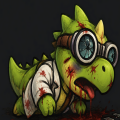
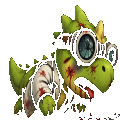
git commit -m loop_fade

diff --git a/dino_mite_view/game_component/viewLevelOne.py b/dino_mite_view/game_component/viewLevelOne.py
@@ -1,5 +1,5 @@
 from curses.ascii import ctrl
-
+import os
 import pygame
 import logging
 from dino_mite_view.game_component.pause_menu import PauseMenu
@@ -19,6 +19,7 @@ class ViewLevelOne:
         self.pause_start = 0
         self.eventually_time = ""
         self.time_duration_level = 120
+        self.store_text_end = self.upload_file()
 
 
     def draw_screen_level_one(self, window, ctr_level_one):
@@ -97,14 +98,36 @@ class ViewLevelOne:
             if game_over:
                 # ADD HERE CHANGE IMAGE CHARACTER
                 ctr_level_one.init_music_end_level_one()
-                pygame.time.delay(500)
                 fade = pygame.Surface((WIDTH, HEIGHT))
                 fade.fill((0, 0, 0))
+                self.draw_text_end(window)
+                pygame.time.delay(500)
+                screen_copy = window.copy()
+                countdown = 5000
+                while(countdown >0):
+                    for alpha in range(0, 255, 20):
+                        fade.set_alpha(alpha)
+                        window.blit(screen_copy, (0, 0))
+                        window.blit(fade, (0, 0))
+                        ctr_level_one.level_one.character.draw_status(window, "dead")
+                        pygame.display.update()
+                        clock.tick(60)
+
+                    for alpha in range(255, 0, 20):
+                        fade.set_alpha(alpha)
+                        window.blit(screen_copy, (0, 0))
+                        window.blit(fade, (0, 0))
+                        ctr_level_one.level_one.character.draw_status(window, "dead")
+                        pygame.display.update()
+                        clock.tick(60)
+                    countdown -= 500
                 for alpha in range(0, 255, 1):
                     fade.set_alpha(alpha)
+                    window.blit(screen_copy, (0, 0))
                     window.blit(fade, (0, 0))
                     ctr_level_one.level_one.character.draw_status(window, "dead")
                     pygame.display.update()
+                    pygame.time.delay(10)
                     clock.tick(60)
                 logging.info(f'game over')
                 # HERE TRANSITION
@@ -155,3 +178,30 @@ class ViewLevelOne:
             pygame.draw.rect(window, (0, 0, 0), rect, 2)
             window.blit(img, rect)
 
+    def draw_text_end(self, window):
+        split_text = self.store_text_end.split("\n")
+        pos_x = 400
+        pos_y = 50
+        font_type = pygame.font.SysFont("Comic Sans MS", 70)
+        color_text = (255, 255, 255)
+        img = font_type.render(split_text[0], True, color_text)
+        rect = img.get_rect()
+        rect.center = (pos_x, pos_y)
+        window.blit(img, rect)
+        pos_y += 150
+        img = font_type.render(split_text[1], True, color_text)
+        rect = img.get_rect()
+        rect.center = (pos_x, pos_y)
+        window.blit(img, rect)
+
+
+
+    def upload_file(self):
+        try:
+            content  = ""
+            os_path  = os.path.join("./text_files", "end_story.txt")
+            with open(os_path, 'r', encoding='utf-8') as f:
+                content+= f.read()
+        except FileNotFoundError:
+            content = "file is missing"
+        return content
